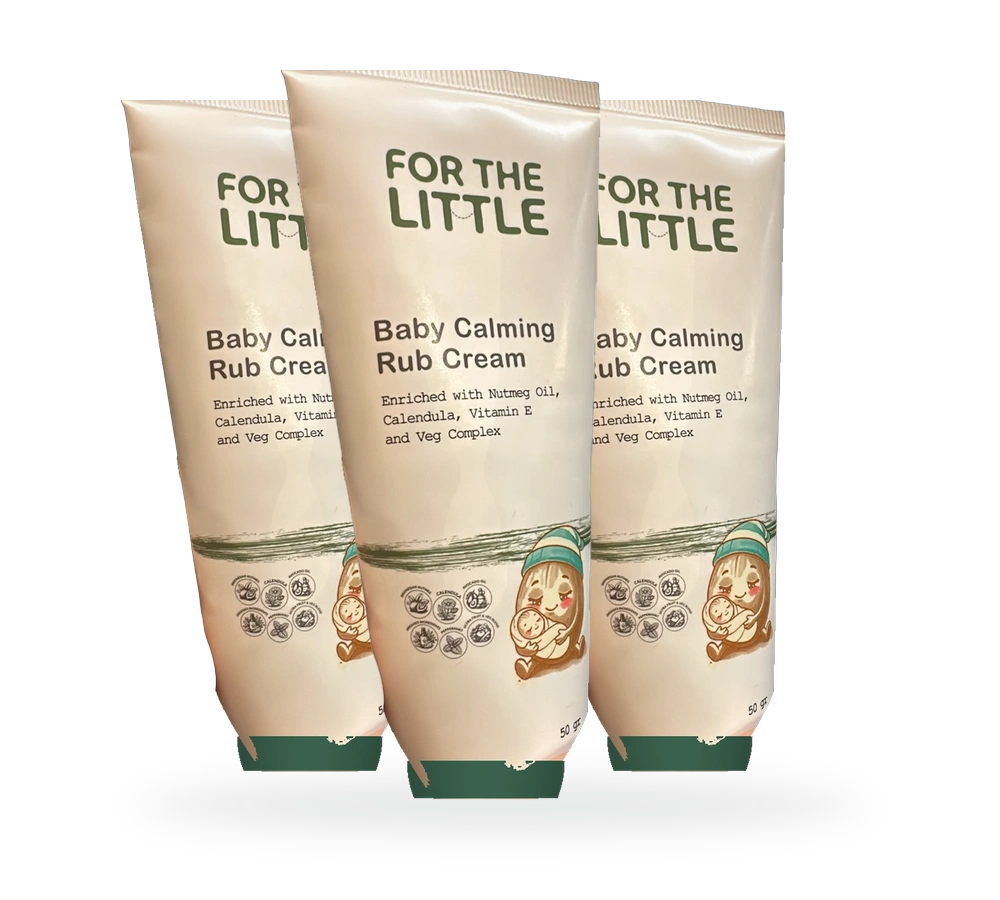
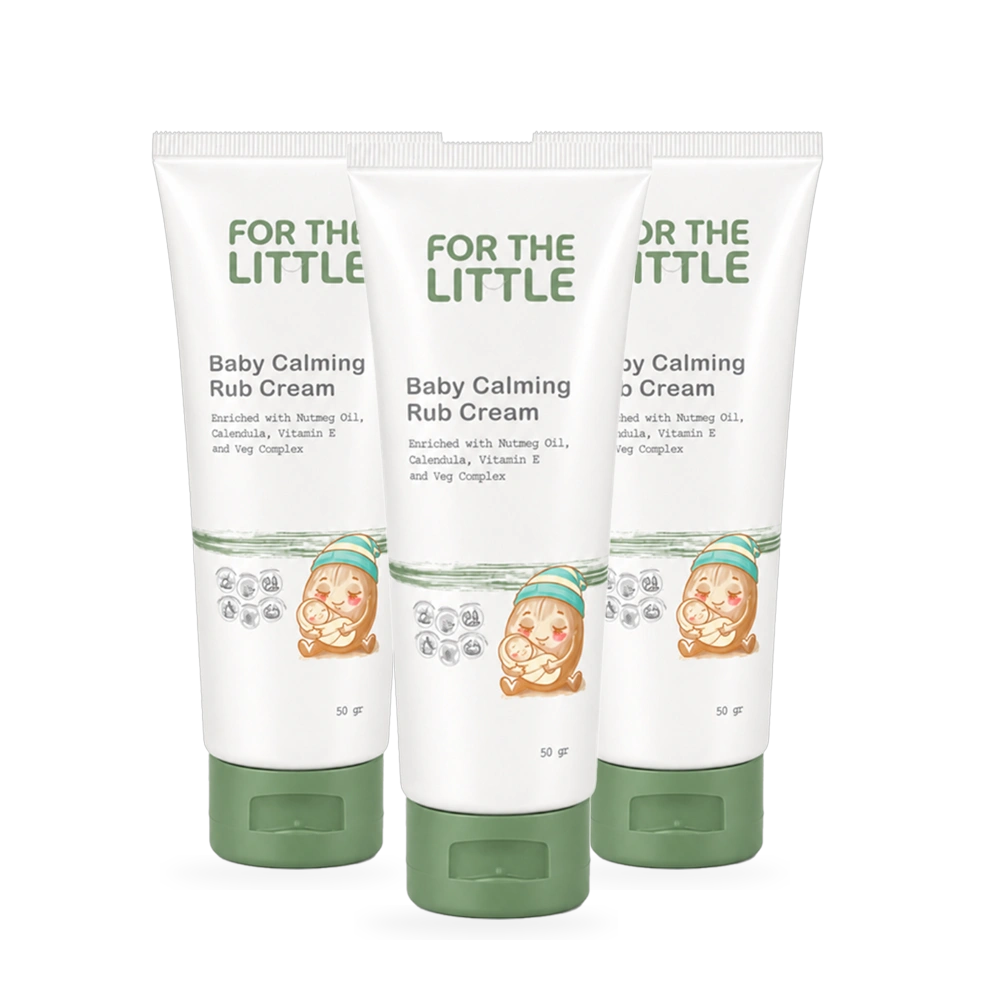
feat(product): Apply official TUBE FTL render from Papap and set normal pricing (Rp 118.000)

diff --git a/index.php b/index.php
@@ -431,8 +431,7 @@ require_once __DIR__ . '/includes/navbar.php';
                             Krim Telon & Calming (50g)
                         </p>
                         <div class="mt-2 flex items-baseline gap-2">
-                            <span class="text-base font-extrabold text-ftl-forest">Rp 79.000</span>
-                            <span class="text-xs text-gray-400 line-through">Rp 118.000</span>
+                            <span class="text-base font-extrabold text-ftl-forest">Rp 118.000</span>
                         </div>
                     </div>
                 </div>
@@ -446,13 +445,13 @@ require_once __DIR__ . '/includes/navbar.php';
                 </button>
             </div>
 
-            <!-- Card 2: Paket Hemat 2 Tube (Bundling) -->
+            <!-- Card 2: Paket 2 Tube (Bundling) -->
             <div data-animate="fade-up" data-delay="120" class="min-w-[210px] sm:min-w-0 max-w-[240px] sm:max-w-none flex-1 shrink-0 snap-center bg-white rounded-3xl p-4 sm:p-5 border border-stone-200/80 shadow-xs hover:shadow-lg transition-all duration-300 flex flex-col justify-between group">
                 <div>
                     <!-- Top Pill Badge -->
                     <div class="flex items-center justify-between">
-                        <span class="inline-flex items-center gap-1 text-[10px] font-bold px-2 py-0.5 rounded-full bg-amber-50 text-amber-800 border border-amber-200/70">
-                            🔥 Hemat 37%
+                        <span class="inline-flex items-center gap-1 text-[10px] font-bold px-2 py-0.5 rounded-full bg-emerald-50 text-emerald-800 border border-emerald-200/70">
+                            🌿 Paket 2 Tube
                         </span>
                         <span class="text-[10px] font-bold text-emerald-700 bg-emerald-50 px-2 py-0.5 rounded-full">Bestseller</span>
                     </div>
@@ -470,11 +469,10 @@ require_once __DIR__ . '/includes/navbar.php';
                             Bundle Double Care (2x 50g)
                         </h3>
                         <p class="text-xs text-gray-500 mt-0.5">
-                            Paket Hemat 2 Tube Bunda
+                            Paket 2 Tube Perawatan Bunda
                         </p>
                         <div class="mt-2 flex items-baseline gap-2">
-                            <span class="text-base font-extrabold text-ftl-forest">Rp 149.000</span>
-                            <span class="text-xs text-gray-400 line-through">Rp 236.000</span>
+                            <span class="text-base font-extrabold text-ftl-forest">Rp 236.000</span>
                         </div>
                     </div>
                 </div>
@@ -494,7 +492,7 @@ require_once __DIR__ . '/includes/navbar.php';
                     <!-- Top Pill Badge -->
                     <div class="flex items-center justify-between">
                         <span class="inline-flex items-center gap-1 text-[10px] font-bold px-2 py-0.5 rounded-full bg-emerald-50 text-emerald-800 border border-emerald-200/70">
-                            🌟 Super Hemat 38%
+                            🌟 Paket 3 Tube
                         </span>
                         <span class="text-[10px] font-bold text-gray-400">Stok 3 Bulan</span>
                     </div>
@@ -512,11 +510,10 @@ require_once __DIR__ . '/includes/navbar.php';
                             Bundle Triple Care (3x 50g)
                         </h3>
                         <p class="text-xs text-gray-500 mt-0.5">
-                            Paket Hemat 3 Tube Si Kecil
+                            Paket Lengkap 3 Tube Si Kecil
                         </p>
                         <div class="mt-2 flex items-baseline gap-2">
-                            <span class="text-base font-extrabold text-ftl-forest">Rp 219.000</span>
-                            <span class="text-xs text-gray-400 line-through">Rp 354.000</span>
+                            <span class="text-base font-extrabold text-ftl-forest">Rp 354.000</span>
                         </div>
                     </div>
                 </div>
@@ -616,14 +613,11 @@ require_once __DIR__ . '/includes/navbar.php';
                             Krim telon alami dengan biji pala nusantara & ekstrak calendula organik.
                         </p>
 
-                        <!-- Price Banner (Konsisten Nyamping di Semua Layar HP) -->
+                        <!-- Price Banner -->
                         <div class="mt-5 p-4 rounded-2xl bg-ftl-light/80 border border-emerald-100 flex flex-wrap items-center justify-between gap-2.5 sm:gap-3">
                             <div class="flex items-baseline gap-2 sm:gap-2.5 flex-wrap">
-                                <span class="text-xs sm:text-sm text-gray-400 line-through whitespace-nowrap">Rp 99.000</span>
-                                <span class="text-2xl sm:text-3xl font-extrabold text-ftl-forest whitespace-nowrap">Rp 79.000</span>
-                                <span class="text-xs font-bold text-amber-800 bg-amber-100 px-2.5 py-0.5 rounded-full whitespace-nowrap">
-                                    Hemat 20%
-                                </span>
+                                <span class="text-2xl sm:text-3xl font-extrabold text-ftl-forest whitespace-nowrap">Rp 118.000</span>
+                                <span class="text-xs text-gray-500 font-medium">/ tube 50g</span>
                             </div>
                             <span class="text-xs font-semibold text-emerald-700 bg-emerald-50 px-2.5 py-1 rounded-full flex items-center gap-1 whitespace-nowrap shrink-0">
                                 <i data-lucide="check" class="w-3 h-3"></i> Ready Stock

diff --git a/produk.php b/produk.php
@@ -24,14 +24,14 @@ $main_product = $PRODUCTS['calming-rub-50g'];
     activeTab: 'manfaat', 
     qty: 1,
     selectedVariant: 'calming-rub-50g',
-    variantPrice: 79000,
+    variantPrice: 118000,
     formatRp(v) { return 'Rp ' + Number(v).toLocaleString('id-ID'); },
     activeThumb: 0,
     thumbnails: [
         {
-            title: 'Foto Asli Kemasan Depan (50g)',
+            title: 'Foto Resmi Kemasan Tube (50g)',
             img: '<?= BASE_URL ?>assets/images/product-calming-rub-real.webp',
-            badgeLeft: '100% Foto Produk Asli',
+            badgeLeft: 'Foto Resmi FTL',
             badgeRight: 'Dermatologically Tested',
             caption: 'Baby Calming Rub Cream 50g • Formulasi Biji Pala, Calendula & Avocado Oil Alami'
         },
@@ -45,14 +45,14 @@ $main_product = $PRODUCTS['calming-rub-50g'];
         {
             title: 'Paket Hemat 2 Tube (Double Care)',
             img: '<?= BASE_URL ?>assets/images/product-bundle-2-real.webp',
-            badgeLeft: 'Hemat 37% 🔥',
+            badgeLeft: 'Paket 2 Tube 🌿',
             badgeRight: 'Stok Terlaris',
             caption: 'Praktis untuk stok meja ganti kamar dan diaper bag bepergian'
         },
         {
             title: 'Bundle Triple Care (3x 50g)',
             img: '<?= BASE_URL ?>assets/images/product-bundle-3-real.webp',
-            badgeLeft: 'Super Hemat 38% 🌟',
+            badgeLeft: 'Paket 3 Tube 🌟',
             badgeRight: 'Stok 3 Bulan',
             caption: 'Paket terlengkap bebas kolik & kembung untuk 3 bulan tidur lelap'
         },
@@ -162,13 +162,7 @@ $main_product = $PRODUCTS['calming-rub-50g'];
                     <div>
                         <div class="flex items-baseline gap-2">
                             <span class="text-3xl font-extrabold text-ftl-forest">
-                                Rp 79.000
-                            </span>
-                            <span class="text-sm text-gray-400 line-through">
-                                Rp 99.000
-                            </span>
-                            <span class="text-xs font-bold bg-amber-100 text-amber-800 px-2 py-0.5 rounded-full">
-                                Hemat 20%
+                                Rp 118.000
                             </span>
                         </div>
                         <span class="text-xs text-gray-500 mt-1 block">Kemasan Tube 50 gram (Penggunaan 1 - 2 bulan)</span>
@@ -331,7 +325,7 @@ $main_product = $PRODUCTS['calming-rub-50g'];
                 Beli For The Little di Toko Resmi
             </h2>
             <p class="text-xs sm:text-sm text-gray-600 mt-2 max-w-xl mx-auto">
-                Dapatkan jaminan produk 100% asli, harga promo spesial Rp 79.000 (hemat 20%), dan pengiriman cepat ke seluruh Indonesia langsung ke alamat Bunda.
+                Dapatkan jaminan produk 100% asli, harga resmi Rp 118.000, dan pengiriman cepat ke seluruh Indonesia langsung ke alamat Bunda.
             </p>
 
             <div class="mt-8 flex flex-col sm:flex-row items-center justify-center gap-3 max-w-md mx-auto">

diff --git a/config.php b/config.php
@@ -53,7 +53,7 @@ $PRODUCTS = [
         'id' => 'calming-rub-50g',
         'name' => 'Baby Calming Rub Cream 50g',
         'subtitle' => 'Krim Telon & Calming Alami dengan Biji Pala Nusantara',
-        'price' => 79000,
+        'price' => 118000,
         'original_price' => 118000,
         'badge' => 'Best Seller ⭐',
         'rating' => 5.0,
@@ -73,10 +73,10 @@ $PRODUCTS = [
     'bundling-double-care' => [
         'id' => 'bundling-double-care',
         'name' => 'Bundle Double Care (2x 50g)',
-        'subtitle' => 'Paket Hemat 2 Tube Perawatan Harian & Cadangan Bepergian',
-        'price' => 149000,
+        'subtitle' => 'Paket 2 Tube Perawatan Harian & Cadangan Bepergian',
+        'price' => 236000,
         'original_price' => 236000,
-        'badge' => 'Hemat 37% 🔥',
+        'badge' => 'Paket 2 Tube 🌿',
         'rating' => 5.0,
         'reviews_count' => 128,
         'image' => 'assets/images/product-bundle-2-real.webp',
@@ -84,8 +84,8 @@ $PRODUCTS = [
         'size' => '2 x 50 gram (Total 100g)',
         'certifications' => ['BPOM Certified', 'Halal Indonesia', 'Dermatologically Tested'],
         'benefits' => [
-            'Lebih hemat dibanding beli satuan',
             'Praktis untuk stok di rumah dan travelling',
+            'Formula alami aman untuk newborn 0+',
             'Gratis konsultasi pemakaian via WhatsApp CS'
         ]
     ],
@@ -93,18 +93,18 @@ $PRODUCTS = [
         'id' => 'bundling-newborn-gift',
         'name' => 'Bundle Triple Care (3x 50g)',
         'subtitle' => 'Paket Lengkap 3 Tube (Stok 3 Bulan Bebas Kolik & Rewel)',
-        'price' => 219000,
+        'price' => 354000,
         'original_price' => 354000,
-        'badge' => 'Super Hemat 38% 🌟',
+        'badge' => 'Paket 3 Tube 🌟',
         'rating' => 5.0,
         'reviews_count' => 84,
         'image' => 'assets/images/product-bundle-3-real.webp',
-        'short_desc' => 'Paket terlengkap dan paling hemat untuk perlindungan optimal si kecil setiap hari. Satu untuk meja ganti kamar, satu untuk tas bepergian, satu untuk stok cadangan.',
+        'short_desc' => 'Paket terlengkap untuk perlindungan optimal si kecil setiap hari. Satu untuk meja ganti kamar, satu untuk tas bepergian, satu untuk stok cadangan.',
         'size' => '3 x 50 gram (Total 150g)',
-        'certifications' => ['BPOM Certified', 'Halal Indonesia', 'Dermatologically Tested', 'Paling Hemat'],
+        'certifications' => ['BPOM Certified', 'Halal Indonesia', 'Dermatologically Tested', 'Stok Lengkap'],
         'benefits' => [
-            'Hemat Rp 135.000 dibanding harga sebelum diskon',
-            'Stok tenang 3 bulan bebas rewel malam hari',
+            'Stok lengkap 3 bulan bebas rewel malam hari',
+            'Travel friendly kemasan flip-top anti bocor',
             'Gratis konsultasi pemakaian via WhatsApp CS'
         ]
     ]

diff --git a/includes/order_modal.php b/includes/order_modal.php
@@ -238,7 +238,7 @@ $FTL_DESTINATIONS = getShippingDestinations($SHIPPING_DATA);
                                     <h5 class="font-bold text-xs text-gray-900 leading-snug line-clamp-1" x-text="item.name"></h5>
                                     <div class="flex items-baseline gap-1 mt-0.5">
                                         <span class="text-xs font-extrabold text-ftl-forest whitespace-nowrap" x-text="formatRp(item.price)"></span>
-                                        <span class="text-[10px] text-gray-400 line-through whitespace-nowrap" x-text="formatRp(item.originalPrice)"></span>
+                                        <span x-show="item.originalPrice && item.originalPrice > item.price" class="text-[10px] text-gray-400 line-through whitespace-nowrap" x-text="formatRp(item.originalPrice)"></span>
                                     </div>
                                 </div>
                             </div>
@@ -682,7 +682,7 @@ function orderModal() {
                 id: 'calming-rub-50g',
                 name: 'Baby Calming Rub Cream 50g', 
                 desc: 'Single Tube (1x 50g)',
-                price: 79000, 
+                price: 118000, 
                 originalPrice: 118000,
                 badge: '🌿 100% Biji Pala Asli',
                 badgeClass: 'bg-emerald-50 text-emerald-800 border-emerald-200/80',
@@ -691,22 +691,22 @@ function orderModal() {
             },
             'bundling-double-care': { 
                 id: 'bundling-double-care',
-                name: 'Paket Hemat 2 Tube (Double Care)', 
-                desc: 'Stok Lengkap Bunda (2x 50g)',
-                price: 149000, 
+                name: 'Bundle Double Care (2x 50g)', 
+                desc: 'Paket 2 Tube Bunda (2x 50g)',
+                price: 236000, 
                 originalPrice: 236000,
-                badge: '🔥 Hemat 37%',
-                badgeClass: 'bg-amber-50 text-amber-800 border-amber-200/80',
+                badge: '🌿 Paket 2 Tube',
+                badgeClass: 'bg-emerald-50 text-emerald-800 border-emerald-200/80',
                 weight: 200,
                 image: 'assets/images/product-bundle-2-real.webp'
             },
             'bundling-newborn-gift': { 
                 id: 'bundling-newborn-gift',
                 name: 'Bundle Triple Care (3x 50g)', 
-                desc: 'Paket Hemat 3 Tube (Stok 3 Bulan)',
-                price: 219000, 
+                desc: 'Paket Lengkap 3 Tube (Stok 3 Bulan)',
+                price: 354000, 
                 originalPrice: 354000,
-                badge: '🌟 Super Hemat 38%',
+                badge: '🌟 Paket 3 Tube',
                 badgeClass: 'bg-emerald-50 text-emerald-800 border-emerald-200/80',
                 weight: 300,
                 image: 'assets/images/product-bundle-3-real.webp'

diff --git a/artikel-detail.php b/artikel-detail.php
@@ -291,7 +291,7 @@ require_once __DIR__ . '/includes/navbar.php';
                     <span class="bg-amber-400 text-amber-950 text-[10px] font-extrabold px-2.5 py-0.5 rounded-full uppercase">Rekomendasi Bunda</span>
                     <h3 class="font-display font-bold text-xl mt-1">Baby Calming Rub Cream (50g)</h3>
                     <p class="text-xs text-emerald-100 mt-1 max-w-sm">Meredakan kolik & kembung dalam hitungan menit dengan kehangatan lembut biji pala nusantara.</p>
-                    <div class="text-lg font-bold text-white mt-2">Rp 79.000</div>
+                    <div class="text-lg font-bold text-white mt-2">Rp 118.000</div>
                 </div>
             </div>
             <button type="button" @click="openOrderModal('pesan', 'calming-rub-50g')" 
